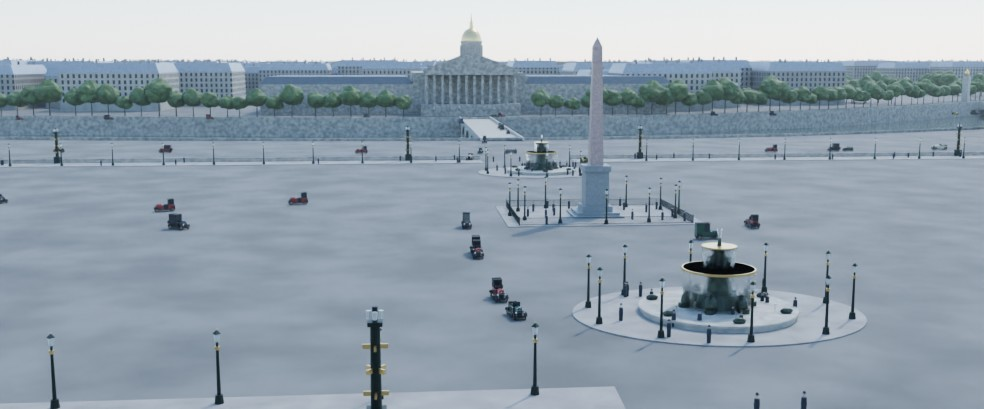
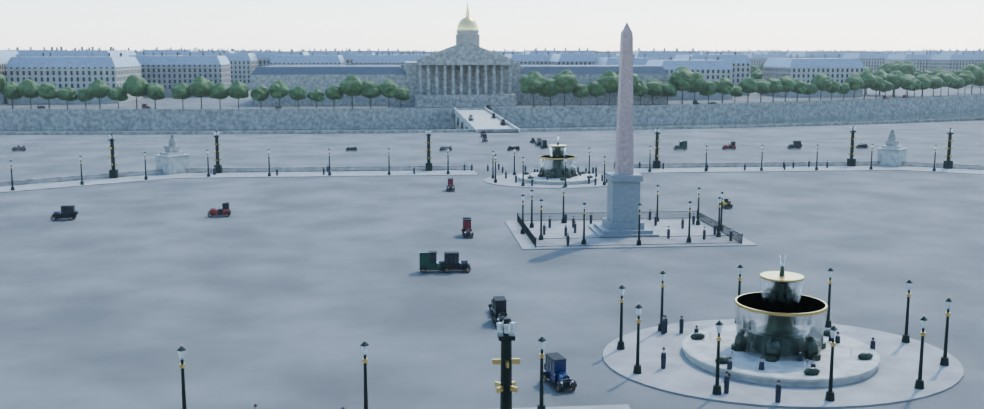
Concorde 1925 : proportions de la place recalées sur les coordonnées réelles
Origine sur la coordonnée exacte de l'obélisque ; octogone intérieur
d'après les statues de Strasbourg et de Brest (côté nord à 85 m) ;
fontaines à 64 m ; façades de Gabriel à 148 m ; pont de la Concorde
centré à 247 m ; Palais-Bourbon et Madeleine replacés. Trajectoires des
voitures et aperçus mis à jour.

Claude-Session: https://claude.ai/code/session_019p2ABcVa9ZL66LVkkoYHSq

diff --git a/blender/concorde_1925/geo.py b/blender/concorde_1925/geo.py
@@ -21,9 +21,9 @@ from __future__ import annotations
 
 import math
 
-# Obélisque de Louxor
-LAT0 = 48.865633
-LON0 = 2.321236
+# Obélisque de Louxor (Wikimedia Commons : 48° 51′ 55,71″ N, 2° 19′ 16,08″ E)
+LAT0 = 48.865475
+LON0 = 2.321133
 AXIS_AZIMUTH_DEG = 25.6  # azimut de +V (0° = nord, sens horaire)
 
 M_PER_DEG_LAT = 111_200.0
@@ -41,14 +41,25 @@ def latlon_to_place(lat: float, lon: float) -> tuple[float, float]:
 
 
 # --- La place ---------------------------------------------------------------
-# Octogone de Gabriel (ancien périmètre des fossés, comblés en 1854) : 359 × 212 m.
+# Emprise totale de la place, fossés de Gabriel compris (comblés en 1854) :
+# 359 × 212 m.
 PLACE_HALF_U = 179.5
 PLACE_HALF_V = 106.0
-PLACE_CHAMFER = 30.0  # pans coupés portant les guérites des statues des villes
+# Octogone intérieur bordé de balustrades ; les guérites des huit statues des
+# villes occupent ses sommets. Les statues de Strasbourg (48,86580 N ;
+# 2,32270 E) et de Brest (48,86650 N ; 2,32060 E) donnent le côté nord à
+# v ≈ 85 m, u ≈ ±86 m ; les fossés faisaient une vingtaine de mètres de large,
+# d'où les côtés est et ouest à u ≈ ±160 m.
+PLACE_INNER = [(86.0, -85.0), (160.0, -35.0), (160.0, 35.0), (86.0, 85.0),
+               (-86.0, 85.0), (-160.0, 35.0), (-160.0, -35.0), (-86.0, -85.0)]
+# Statue de chaque sommet de PLACE_INNER, dans le même ordre.
+PLACE_INNER_STATUES = ("Marseille", "Lyon", "Lille", "Strasbourg",
+                       "Brest", "Rouen", "Nantes", "Bordeaux")
 
-# Fontaines de Hittorff (1840), sur l'axe rue Royale / pont.
-FOUNTAIN_NORTH_V = 72.0   # Fontaine des Fleuves
-FOUNTAIN_SOUTH_V = -72.0  # Fontaine des Mers
+# Fontaines de Hittorff (1840), sur l'axe rue Royale / pont
+# (Fontaine des Fleuves : 48,865992 N ; 2,321506 E → 64 m de l'obélisque).
+FOUNTAIN_NORTH_V = 64.0   # Fontaine des Fleuves
+FOUNTAIN_SOUTH_V = -64.0  # Fontaine des Mers
 
 # Obélisque (sans le pyramidion doré, posé en 1998).
 OBELISK_SHAFT_H = 22.83
@@ -58,7 +69,9 @@ OBELISK_PEDESTAL_H = 9.2
 
 # --- Palais de Gabriel (Hôtel de la Marine à l'est, Crillon à l'ouest) ------
 # Façade sur la place (plan des colonnes) et profondeur des bâtiments.
-GABRIEL_FACADE_V = 176.0
+# Centres des bâtiments : Hôtel de la Marine (48,866778 N ; 2,323083 E) et
+# Crillon (48,867337 N ; 2,321149 E), soit v ≈ 190 m pour ~85 m de profondeur.
+GABRIEL_FACADE_V = 148.0
 GABRIEL_DEPTH = 75.0
 RUE_ROYALE_HALF_W = 14.0
 GABRIEL_WIDTH = 96.0  # chaque palais
@@ -81,8 +94,8 @@ SEINE_AXIS_LATLON = (
     (48.85840, 2.33400),  # pont du Carrousel
     (48.85960, 2.32900),  # pont Royal
     (48.86160, 2.32420),  # passerelle Solférino
-    (48.86375, 2.32000),  # pont de la Concorde
-    (48.86415, 2.31700),  # port de la Concorde
+    (48.86330, 2.32000),  # pont de la Concorde (centre : 48,8635 N ; 2,3196 E)
+    (48.86380, 2.31700),
     (48.86370, 2.31350),  # pont Alexandre-III
     (48.86300, 2.30980),  # pont des Invalides
     (48.86250, 2.30140),  # pont de l'Alma
@@ -92,8 +105,8 @@ SEINE_AXIS_LATLON = (
 SEINE_WIDTH = 135.0
 SEINE_LEVEL = -8.5
 PONT_CONCORDE_WIDTH = 15.5      # largeur d'origine (élargi à 35 m en 1930-1932)
-PALAIS_BOURBON_PORTICO_V = -345.0
-MADELEINE_V = 553.0             # centre de l'église (dans l'axe de la rue Royale)
+PALAIS_BOURBON_PORTICO_V = -365.0  # centre du palais : 48,862069 N ; 2,318681 E
+MADELEINE_V = latlon_to_place(48.87003, 2.32447)[1]  # centre de l'église
 INVALIDES_DOME = latlon_to_place(48.85500, 2.31250)
 TOUR_EIFFEL = latlon_to_place(48.85837, 2.29448)
 GRAND_PALAIS = latlon_to_place(48.86612, 2.31253)
@@ -104,11 +117,6 @@ JEU_DE_PAUME = (232.0, 88.0)
 ORANGERIE = (232.0, -98.0)
 RIVOLI_FACADE_V = 135.0         # alignement des arcades de la rue de Rivoli
 CHAMPS_ELYSEES_HALF_W = 35.0
-
-# Statues des huit villes, aux pans coupés de l'octogone (ordre depuis le
-# nord-est, sens horaire vu du ciel dans le repère place).
-CITY_STATUES = ("Lille", "Strasbourg", "Lyon", "Marseille",
-                "Bordeaux", "Nantes", "Brest", "Rouen")
 
 # --- Date et lieu de la prise de vues --------------------------------------
 # En 1925 la France applique l'heure d'été (UTC+1) du 4 avril au 4 octobre.

diff --git a/blender/concorde_1925/vehicles.py b/blender/concorde_1925/vehicles.py
@@ -25,6 +25,7 @@ from dataclasses import dataclass
 import bmesh
 import bpy
 
+import geo
 from helpers import add_box, add_cylinder, add_sphere, collection, link
 from materials import car_paint
 
@@ -489,26 +490,27 @@ def make_path(name, points, coll, frame_obj):
 ROUTES = {
     # Champs-Élysées → rue de Rivoli (vers l'est), au sud de l'obélisque
     "CE_VERS_RIVOLI": [(-1100, -8), (-400, -8), (-170, -10), (-60, -22),
-                       (0, -24), (60, -22), (150, 20), (175, 118),
-                       (250, 122), (1300, 122)],
+                       (0, -24), (60, -22), (140, -18), (172, 0),
+                       (176, 100), (250, 122), (1300, 122)],
     # Quai des Tuileries → Champs-Élysées (vers l'ouest), au nord de l'obélisque
-    "QUAI_VERS_CE": [(1200, -150), (400, -150), (230, -140), (150, -60),
-                     (60, 24), (0, 26), (-60, 24), (-170, 10), (-400, 8),
-                     (-1100, 8)],
+    "QUAI_VERS_CE": [(1200, -150), (400, -150), (230, -140), (172, -30),
+                     (150, 20), (60, 24), (0, 26), (-60, 24), (-170, 10),
+                     (-400, 8), (-1100, 8)],
     # Rue Royale → pont de la Concorde (vers le sud), à l'ouest de l'axe
-    "ROYALE_VERS_PONT": [(-6, 650), (-6, 200), (-8, 120), (-24, 72),
-                         (-24, 30), (-24, -30), (-24, -72), (-6, -120),
-                         (-5, -300), (-5, -330), (-90, -330), (-600, -330)],
+    "ROYALE_VERS_PONT": [(-6, 650), (-6, 200), (-8, 110), (-24, 64),
+                         (-24, 30), (-24, -30), (-24, -64), (-6, -110),
+                         (-5, -300), (-5, -340), (-60, -350), (-200, -385),
+                         (-400, -500)],
     # Pont → rue Royale (vers le nord), à l'est de l'axe
-    "PONT_VERS_ROYALE": [(600, -320), (80, -320), (5, -312), (5, -150),
-                         (24, -72), (24, -30), (24, 30), (24, 72), (8, 120),
+    "PONT_VERS_ROYALE": [(300, -370), (80, -352), (5, -345), (5, -150),
+                         (24, -64), (24, -30), (24, 30), (24, 64), (8, 110),
                          (6, 200), (6, 650)],
     # Devant les palais de Gabriel (vers l'ouest), puis avenue Gabriel
-    "GABRIEL_OUEST": [(600, 128), (180, 128), (60, 150), (-60, 150),
-                      (-180, 140), (-260, 140), (-900, 160)],
+    "GABRIEL_OUEST": [(600, 124), (180, 124), (60, 128), (-60, 128),
+                      (-180, 124), (-260, 130), (-900, 150)],
     # Cours la Reine / quai (vers l'est)
-    "COURS_LA_REINE_EST": [(-900, -200), (-300, -140), (-150, -125),
-                           (0, -122), (200, -150), (1200, -160)],
+    "COURS_LA_REINE_EST": [(-900, -200), (-300, -140), (-150, -128),
+                           (0, -128), (200, -150), (1200, -160)],
 }
 
 
@@ -535,7 +537,7 @@ def populate(fleet, M, frame_obj, frames=(1, 240), seed=1925):
                                                         else 7.0))
                         * rnd.uniform(0.8, 1.15))
     # Devant le Crillon : taxis en attente, voiture de maître, fourgonnette
-    v = 166.4
+    v = geo.GABRIEL_FACADE_V - 9.6
     fleet.park("taxi_g7", -100, v, math.pi, "rouge_taxi", "TAXI_G7_ATTENTE_1")
     fleet.park("taxi_g7", -94.5, v, math.pi, "rouge_taxi", "TAXI_G7_ATTENTE_2")
     fleet.park("hispano_h6", -82, v, math.pi, "bordeaux",

diff --git a/blender/concorde_1925/city.py b/blender/concorde_1925/city.py
@@ -11,7 +11,7 @@ from mathutils import Vector
 
 import geo
 from helpers import (add_box, add_cylinder, add_prism, add_sphere,
-                     add_wall_xz, inset_outline, object_from_bmesh, octagon)
+                     add_wall_xz, inset_outline, object_from_bmesh)
 
 # --- Seine -------------------------------------------------------------------
 
@@ -185,11 +185,11 @@ def bridges(coll, M):
 
 def place_layout(coll, M):
     """Terre-pleins, balustrades, refuges ; renvoie les points d'éclairage."""
-    outer = octagon(geo.PLACE_HALF_U, geo.PLACE_HALF_V, geo.PLACE_CHAMFER)
+    outer = geo.PLACE_INNER
     inner = inset_outline(outer, 10.0)
     bm = bmesh.new()   # 0 trottoir, 1 pierre (balustrades)
     lamp_pts, rostral_pts, vertices, baluster_pts = [], [], [], []
-    gaps = {3: 17.0, 7: 13.0}      # rue Royale au nord, pont au sud
+    gaps = {3: 17.0, 7: 17.0}      # rue Royale au nord, pont au sud
     skip = {1, 5}                  # côtés est (Tuileries) et ouest (Champs-Élysées)
     for i in range(8):
         a0, a1 = Vector(outer[i]), Vector(outer[(i + 1) % 8])
@@ -438,14 +438,14 @@ def _free_for_building(u, v, w, d):
         if in_river(x, y, 30):
             return False
         # place, jardins des Champs-Élysées, Tuileries, esplanade des Invalides
-        if -720 < x < 1000 and -150 < y < geo.GABRIEL_FACADE_V and not (
+        if -720 < x < 1000 and -150 < y < geo.GABRIEL_FACADE_V - 6 and not (
                 x > 700 and y > 110):
             return False
         if x > 150 and -170 < y < geo.RIVOLI_FACADE_V and x < 1100:
             return False
         if x < -150 and abs(y) < 210 and x > -1200:
             return False   # Champs-Élysées et leurs jardins
-        if -110 < x < 110 and 150 < y < 680:
+        if -110 < x < 110 and geo.GABRIEL_FACADE_V < y < 680:
             if abs(x) < 70 and y < 470:
                 if abs(x) < 15:
                     return False
@@ -462,7 +462,8 @@ def _free_for_building(u, v, w, d):
             return False   # place du Palais-Bourbon
         if (x + 1418) ** 2 + (y + 1575) ** 2 < 330 ** 2:
             return False   # Champ-de-Mars / Trocadéro
-    if -110 < u < 110 and 150 < v < 260:
+    if (-110 < u < 110 and geo.GABRIEL_FACADE_V - 26 < v
+            < geo.GABRIEL_FACADE_V + geo.GABRIEL_DEPTH + 10):
         return False       # palais de Gabriel (construits à part)
     return True
 
@@ -489,7 +490,7 @@ def city_blocks(coll, M, seed=1925):
         u += w + 0.3
     # Palais de Gabriel : immeubles derrière, rue Boissy-d'Anglas, Saint-Florentin
     for cu in (-140.0, 140.0):
-        _block(bm, cu, 215, 50, 75, 20, rnd)
+        _block(bm, cu, geo.GABRIEL_FACADE_V + 40, 50, 75, 20, rnd)
     # Remplissage par anneaux concentriques
     for ring in range(1, 46):
         r = 150 + ring * 55

diff --git a/blender/concorde_1925/build.py b/blender/concorde_1925/build.py
@@ -87,14 +87,14 @@ def build(args):
     _step("aménagement de la place")
     lamp_pts, rostral_pts, vertices = city.place_layout(c_place, M)
     monuments.street_furniture(c_place, M, [lamp_pts], rostral_pts)
-    for i, (v, name) in enumerate(zip(vertices, geo.CITY_STATUES)):
+    for v, name in zip(vertices, geo.PLACE_INNER_STATUES):
         rot = math.atan2(-v.y, -v.x) - math.pi / 2  # la statue regarde l'obélisque
         monuments.statue_pavilion(c_mon, M, f"STATUE_{name.upper()}", v.x, v.y,
                                   rot)
     monuments.scatter_people(c_place, M, [
         (-170, 170, geo.GABRIEL_FACADE_V - 7.5, geo.GABRIEL_FACADE_V - 1),
-        (-150, 150, 97, 105), (-150, 150, -105, -97),
-        (-15, 15, -11, 11), (-12, 12, 60, 84), (-12, 12, -84, -60)], 140)
+        (-80, 80, 77, 84), (-80, 80, -84, -77),
+        (-15, 15, -11, 11), (-12, 12, 52, 76), (-12, 12, -76, -52)], 140)
 
     _step("monuments")
     monuments.obelisk(c_mon, M)

diff --git a/blender/concorde_1925/README.md b/blender/concorde_1925/README.md
@@ -26,9 +26,16 @@ La génération prend environ 15 s. Le fichier pèse environ 12 Mo (il est ignor
   (`geo.py`) : la Madeleine, le Palais-Bourbon, le dôme des Invalides (1,34 km),
   la tour Eiffel (2,1 km), le Grand et le Petit Palais, le pont Alexandre-III et le cours de la
   Seine.
-- Dimensions : octogone de Gabriel de 359 × 212 m, obélisque de 22,83 m sur socle de 9,2 m,
-  palais de Gabriel de 96 m chacun de part et d'autre de la rue Royale, colonnade de
-  12 colonnes corinthiennes entre deux avant-corps à fronton.
+- Dimensions, recalées sur les coordonnées des monuments :
+  - emprise de la place, anciens fossés compris : 359 × 212 m ;
+  - octogone intérieur à balustrades : côté nord à 85 m de l'obélisque (statues de Strasbourg
+    et de Brest), côtés est et ouest à 160 m ;
+  - fontaines à 64 m de l'obélisque, sur l'axe ;
+  - façades des palais de Gabriel à 148 m ;
+  - centre du pont de la Concorde à 247 m, Palais-Bourbon à 420 m, Madeleine à 562 m ;
+  - obélisque de 22,83 m sur un socle de 9,2 m ;
+  - palais de Gabriel de 96 m chacun de part et d'autre de la rue Royale, avec une colonnade
+    de 12 colonnes corinthiennes entre deux avant-corps à fronton.
 - Le **Crillon** occupe la partie ouest du palais ouest (côté rue Boissy-d'Anglas) ;
   l'Automobile Club de France est côté rue Royale. Le palais est est l'Hôtel de la Marine.
 
